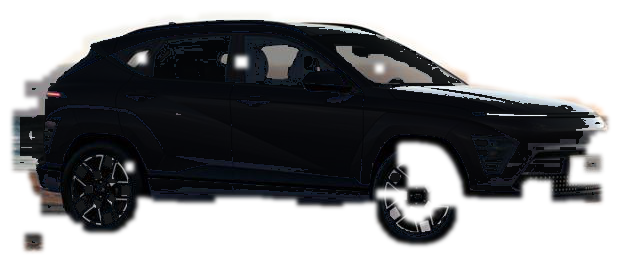
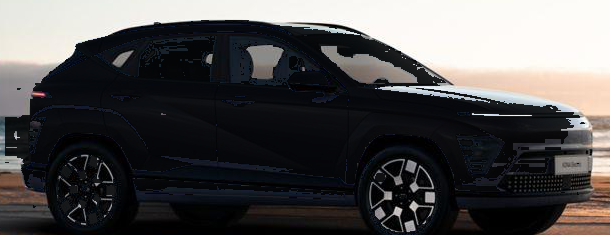
Corrige la hauteur de barre (bug CSS) et nettoie la photo de la Kona
La règle de hauteur de la barre de charge (fiche véhicule) était
écrasée par une règle générique plus tardive dans la feuille de style,
même spécificité -- corrigé en ciblant les deux classes ensemble.

Remplace aussi la photo découpée (bords en dents de scie visibles à la
taille réelle d'affichage, 132px) par un recadrage rectangulaire propre
de la même photo recolorée -- plus net, vérifié à la vraie taille avant
publication.

diff --git a/style.css b/style.css
@@ -374,9 +374,9 @@ body[data-feuille="haut"] .ev-fabs { opacity: 0; pointer-events: none; }
 }
 .ev-fiche-vehicule-haut { display: flex; align-items: center; justify-content: space-between; gap: 12px; }
 .ev-fiche-vehicule-infos { display: flex; flex-direction: column; gap: 4px; min-width: 0; }
-.ev-fiche-vehicule-image { width: 132px; height: auto; flex-shrink: 0; }
+.ev-fiche-vehicule-image { width: 132px; height: auto; flex-shrink: 0; border-radius: 10px; object-fit: cover; }
 .ev-fiche-vehicule-nom { font-weight: 800; font-size: 14px; overflow: hidden; text-overflow: ellipsis; white-space: nowrap; }
-.ev-fiche-vehicule-jauge { width: 100%; height: 14px; }
+.ev-jauge.ev-fiche-vehicule-jauge { width: 100%; height: 14px; }
 .ev-fiche-vehicule-pct { color: var(--vert-clair); font-weight: 800; font-size: 28px; line-height: 1.1; }
 
 /* ── Éléments communs ──────────────────────────────────────────────────── */

diff --git a/index.html b/index.html
@@ -924,7 +924,7 @@
       <button id="ev-revoir-accueil-btn" class="ev-lien ev-lien-centre" type="button">❓ Revoir la présentation de l'appli</button>
       <div class="ev-hint ev-lien-centre" id="ev-mention-profil"></div>
       <details class="ev-sous-menu"><summary>⚖ Mentions légales</summary><p class="ev-hint" id="ev-mention-legale"></p></details>
-      <div class="ev-hint ev-lien-centre">Version 154 : batterie réelle aussi mise à jour sur l'écran Trajet</div>
+      <div class="ev-hint ev-lien-centre">Version 155 : photo de la Kona nettoyée (bord recadré, plus de hauteur de barre corrigée)</div>
     </div>
   </div>
 </section>

diff --git a/service-worker.js b/service-worker.js
@@ -6,11 +6,11 @@
 // préparées. Les autres services (TomTom, bornes, météo) ne passent pas ici :
 // TomTom interdit de stocker ses cartes, et les autres doivent être frais.
 
-const CACHE_NOM = "trajetve-v154";
+const CACHE_NOM = "trajetve-v155";
 // Empreinte des fichiers ci-dessous, vérifiée par les tests : les téléphones
 // ne reçoivent une modification que si ce fichier change. À chaque
 // publication : augmenter CACHE_NOM et recopier l'empreinte donnée par le test.
-const EMPREINTE_COQUILLE = "0edecb7f1af93915";
+const EMPREINTE_COQUILLE = "74fd20c35f67d8a4";
 const FICHIERS_COQUILLE = [
   "./",
   "./index.html",

diff --git a/actualiser.html b/actualiser.html
@@ -24,7 +24,7 @@
   <script>
     const status = document.getElementById("status");
     const retry = document.getElementById("retry");
-    const VERSION_ATTENDUE = 154;
+    const VERSION_ATTENDUE = 155;
 
     function versionEnCache(noms) {
       const versions = noms
